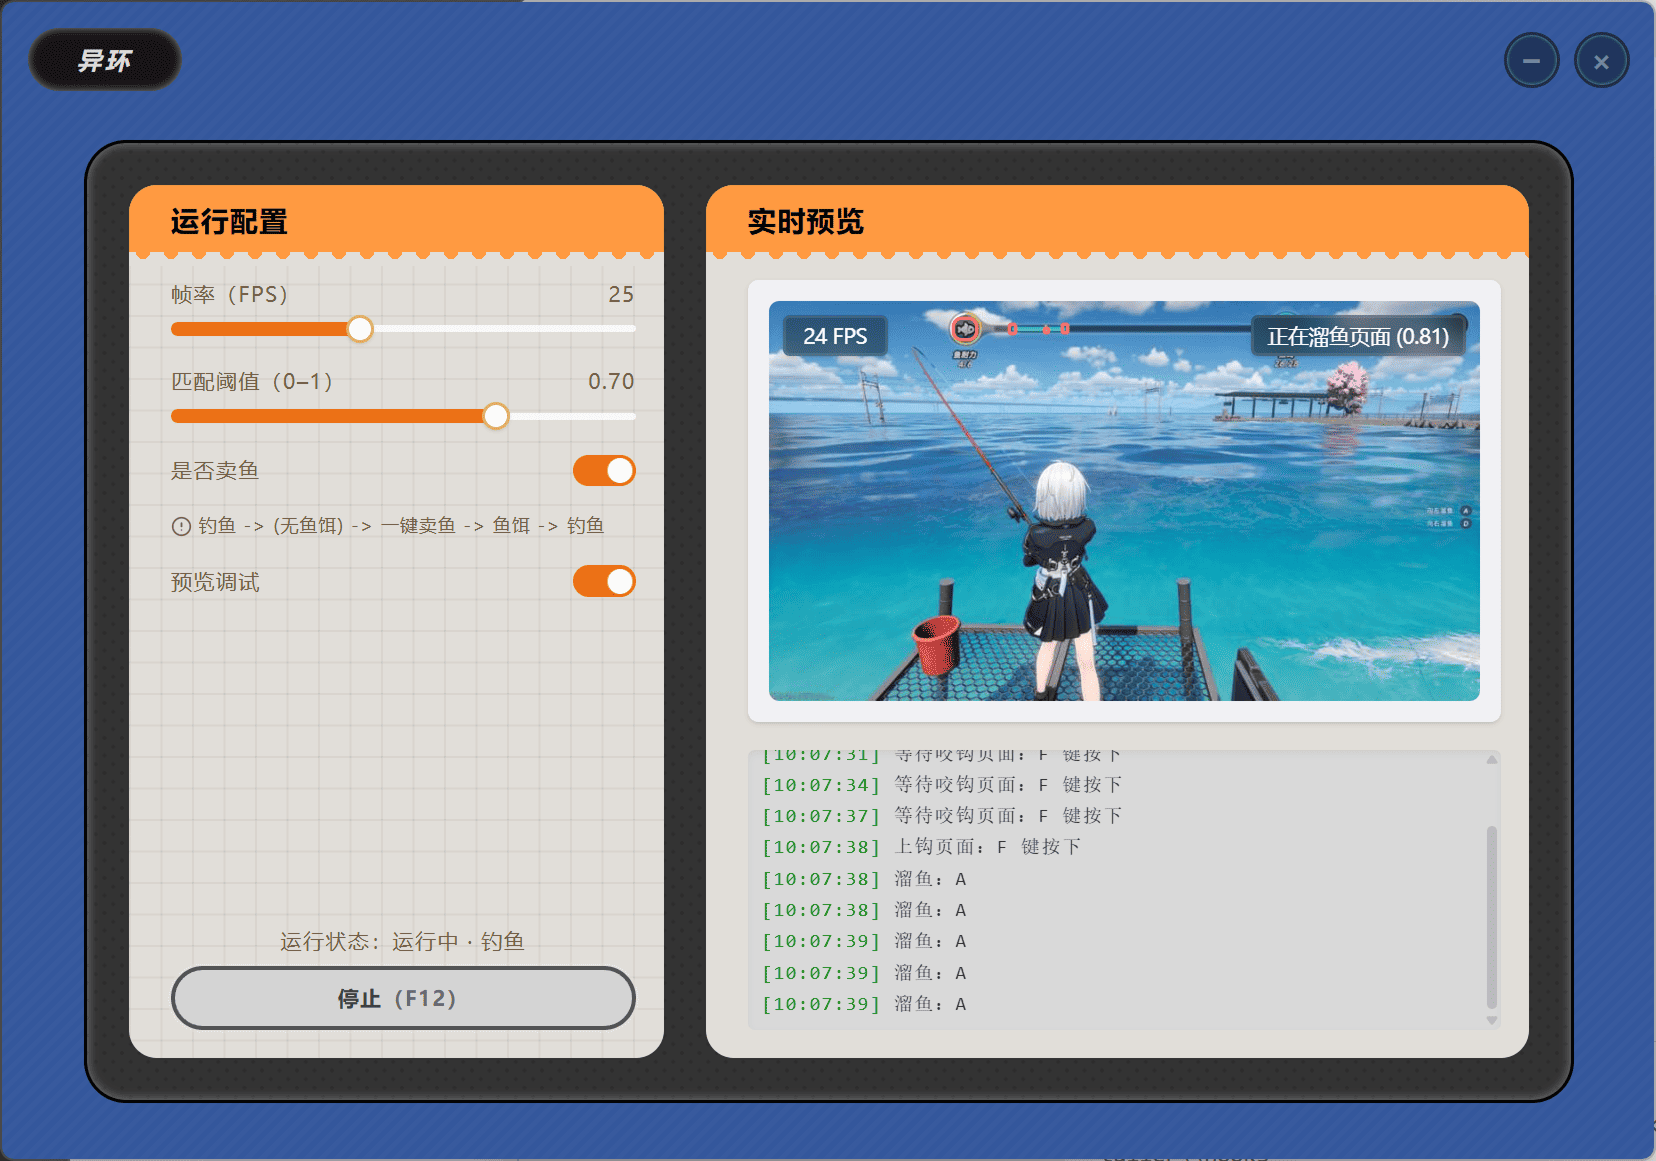
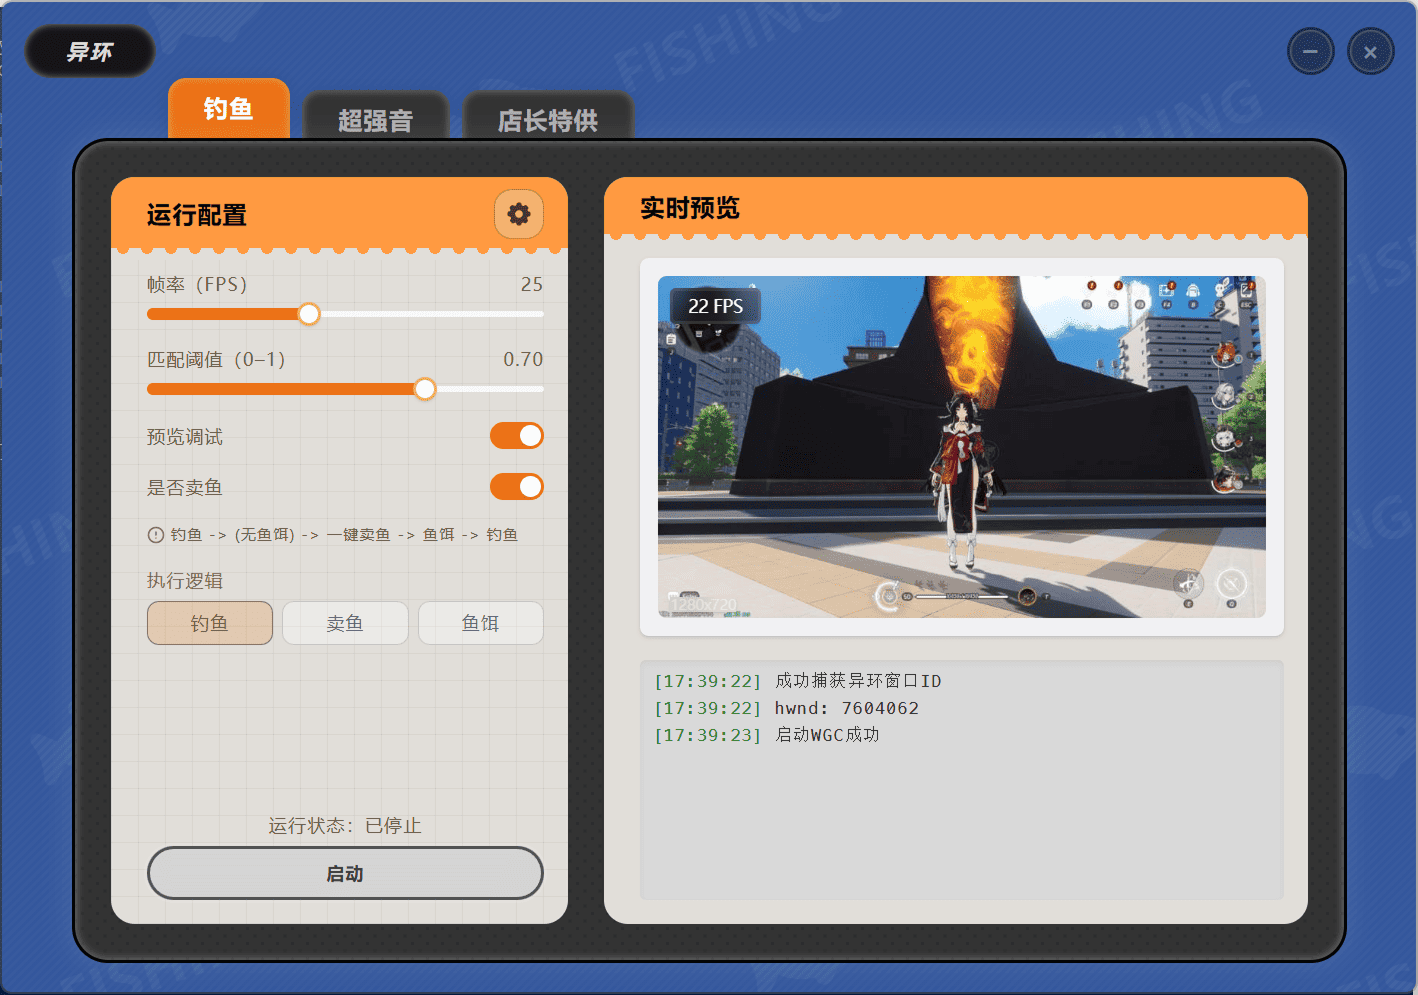
v1.3.0

diff --git a/README.md b/README.md
@@ -4,7 +4,10 @@
 
 - [x] 钓鱼功能
 - [x] 超强音功能
-- [ ] 店长特供
+- [x] 店长特供
+  - 只能用娜娜莉通关，关卡太变态了。
+  - 设有自动闯关。
+- [ ] 钢琴
 
 > 钓鱼启动后，会自动识别月卡点击。
 
